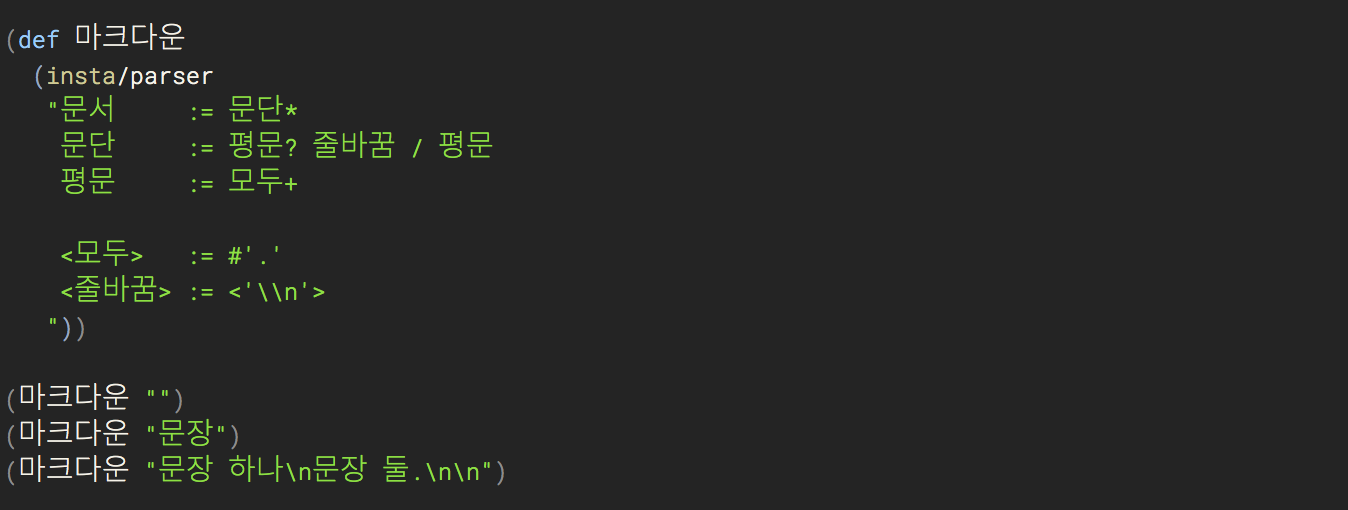
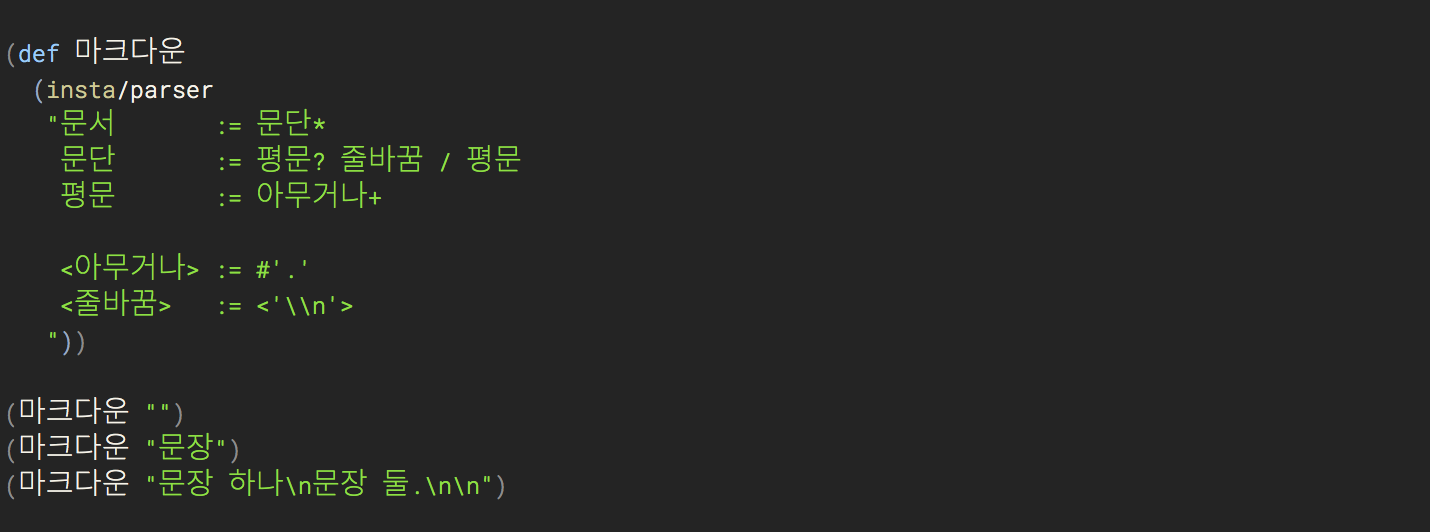
첫 마크다운 파서 설명

diff --git a/instaparse-2.md b/instaparse-2.md
@@ -64,6 +64,48 @@
 
 ![](instaparse/md-01.png)
 
+스샷에 나와있는 문법만 추려서 다시 보자.
+
+    문서 := 문단*
+    문단 := 평문? 줄바꿈 / 평문
+    평문 := 아무거나+
+
+    <아무거나> := #'.'
+    <줄바꿈>   := <'\n'>
+
+[인스타파서][Instaparser] 튜토리얼을 읽었다면, 다 이해할 내용이지만, 복습삼아 차근히 설명해보자.
+
+1. 먼저, 이 파서는 첫번째 규칙이 `문서 := 문단*`으로, 이 파서가 분석할 문서는 여러 문단으로 구성된 텍스트라는 의미이다.
+1. `문단`은 평문으로 시작해서 줄바꿈 문자로 끝나거나, 평문 없이 바로 줄바꿈 문자로만 끝나거나, 평문으로 시작해서 줄바꿈 문자 없이 끝나도 된다. `/` 연산은 `|`와 비슷하게 `~ 또는 ~`라는 대안 선택을 의미하는데, 우선순위가 앞에 있어서, 앞의 매칭 조건이 실패해야만 그 다음 조건에 대한 매칭을 시도한다는 점이 다르다.
+1. `평문`은 `아무거나`가 한 번 이상 반복되면 된다.
+1. `아무거나`는 어떤 문자가와도 매칭된다.
+1. `줄바꿈`은 개행문자를 의미한다. 소스코드에는 백슬래시가 두 번 나왔는데, 문자열 안에 있기 때문에 이스케이프처리를 한 것 뿐이다.
+
+`아무거나`와 `줄바꿈` 규칙명을 부등호로 감쌌는데, 이는 결과 파스 트리에 해당 규칙이름을 따로 표시하지 말라는 의미이다. `줄바꿈` 규칙처럼 규칙의 오른쪽 부분(RHS)에 부등호로 감싼 기호가 있으면, 그 감싼 내용을 매칭하되, 파스 트리에 아예 드러내지 않는다. 즉 이 경우, 줄바꿈 문자가 텍스트에 있어야만 매칭되지만, 결과 파스 트리에는 보이지 않게 된다.
+
+말로 적으니 조금 어렵게 느껴지는데, 직접 따라서 개발해 볼 때, 부등호를 감싸보고 풀어보고 해보면 바로 이해되는 내용이니, 일단은 그냥 넘어가도 될 것이다.
+
+전체를 요약하면, 여러 문장이 있는 텍스트를 받아서, 개행문자(\n) 기준으로 나눈 각 줄마다 문단으로 잘라주는 파서를 만드는 것이다. 즉, 마크다운에서 각 줄마다 `<p>`태그로 감싼 HTML 블록을 만들 준비가 된 거다.
+
+그래서, 소스코드에 있는 예제를 실행해 보면 아래의 결과를 보인다.
+
+    (마크다운 "")     ; => [:문서]
+    (마크다운 "문장") ; => [:문서 [:문단 [:평문 "문" "장"]]]
+    (마크다운 "문장 하나\n문장 둘.\n\n")
+    ; => [:문서 [:문단 [:평문 "문" "장" " " "하" "나"]] [:문단 [:평문 "문" "장" " " "둘" "."]] [:문단]]
+
+첫 번째는 `문단`이 하나도 없었던 빈 문서를 뜻하고, 두 번째는 `문단`이 하나 있는 `문서`이고, 그 한 `문단`은 하나의 `평문`으로 구성됐으며, `평문`의 안에는 `"문"`과 `"장"`이라는 `아무거나` 글자가 들어있는 것이다. `아무거나`는 규칙을 정의할 때 `<>` 부등호로 감싹기 때문에 결과 파스 트리에 드러나지 않았다.
+
+그러면 이렇게 구한 파스 트리를 HTML로 변환한다면, 이 트리를 순회하며, 단순히 `문단`을 `<p>`태그로 치환하면 될 것이다. 그럼 결국, `"문장 하나\n문장 둘.\n\n"`는,
+
+    <p>문장 하나</p><p>문장 둘.</p><p></p>
+
+이런 HTML 조각으로 만들어 내게 된다.
+
+
+
+
+
 [Tufte CSS]: http://edwardtufte.github.io/tufte-css/
 [Instaparser]: https://github.com/Engelberg/instaparse
 [PEG]: https://en.wikipedia.org/wiki/Parsing_expression_grammar
